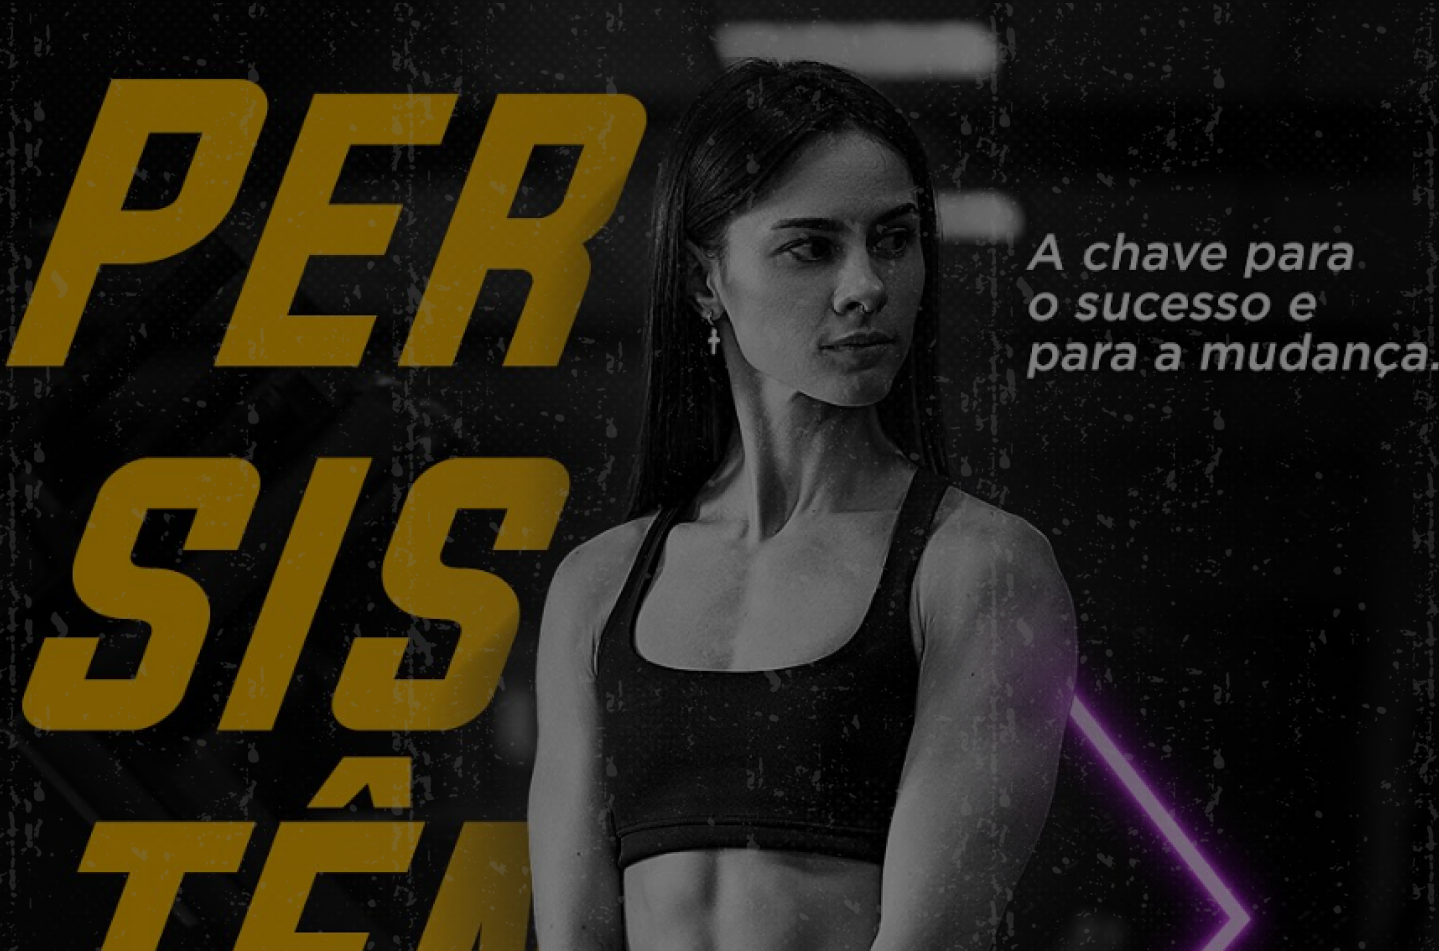
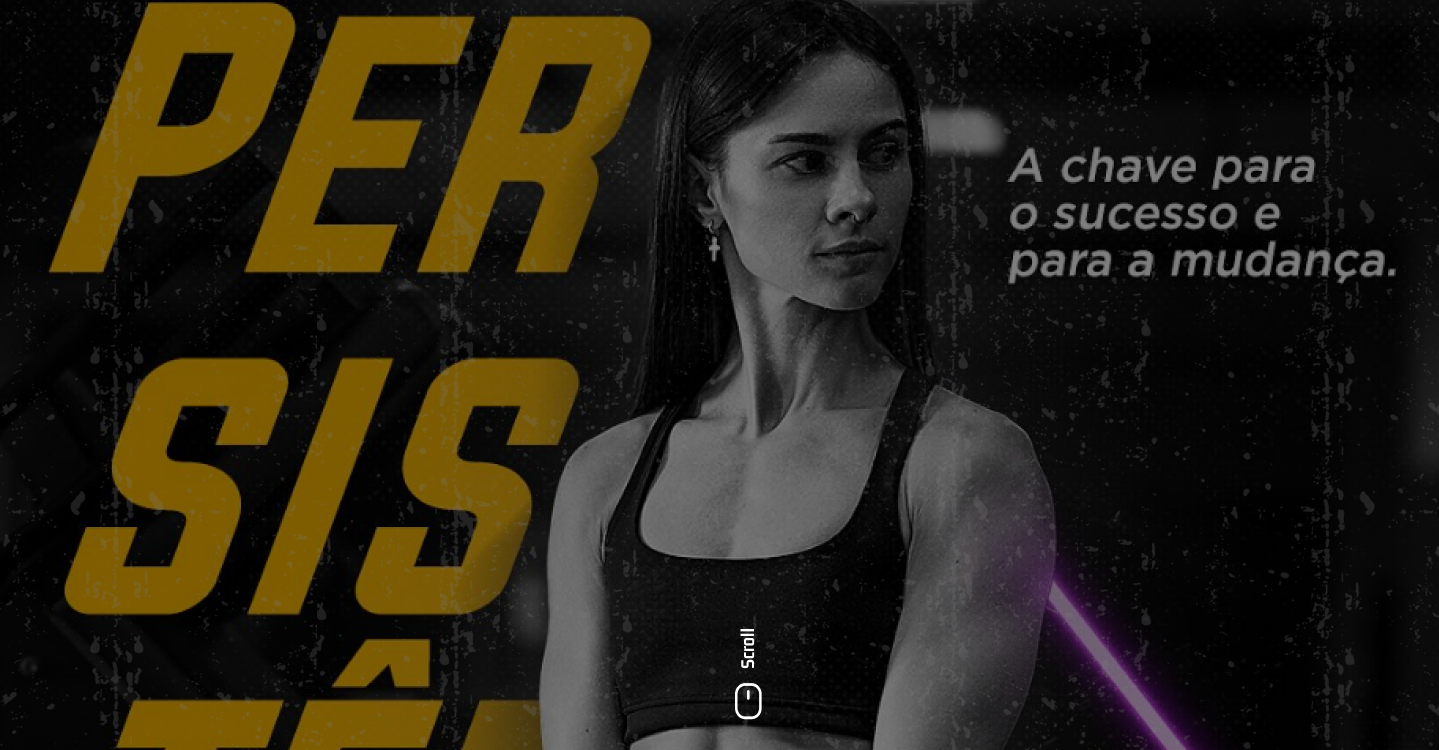
Atualizacao de imagens

diff --git a/Speed Form Academias/styles/header.css b/Speed Form Academias/styles/header.css
@@ -1,6 +1,6 @@
 .videoInicio{
   width: 100%;
-  height: 100vh;
+  height: 100%;
 
   background: url("../img/videoInicio.png") no-repeat center / cover;
 
